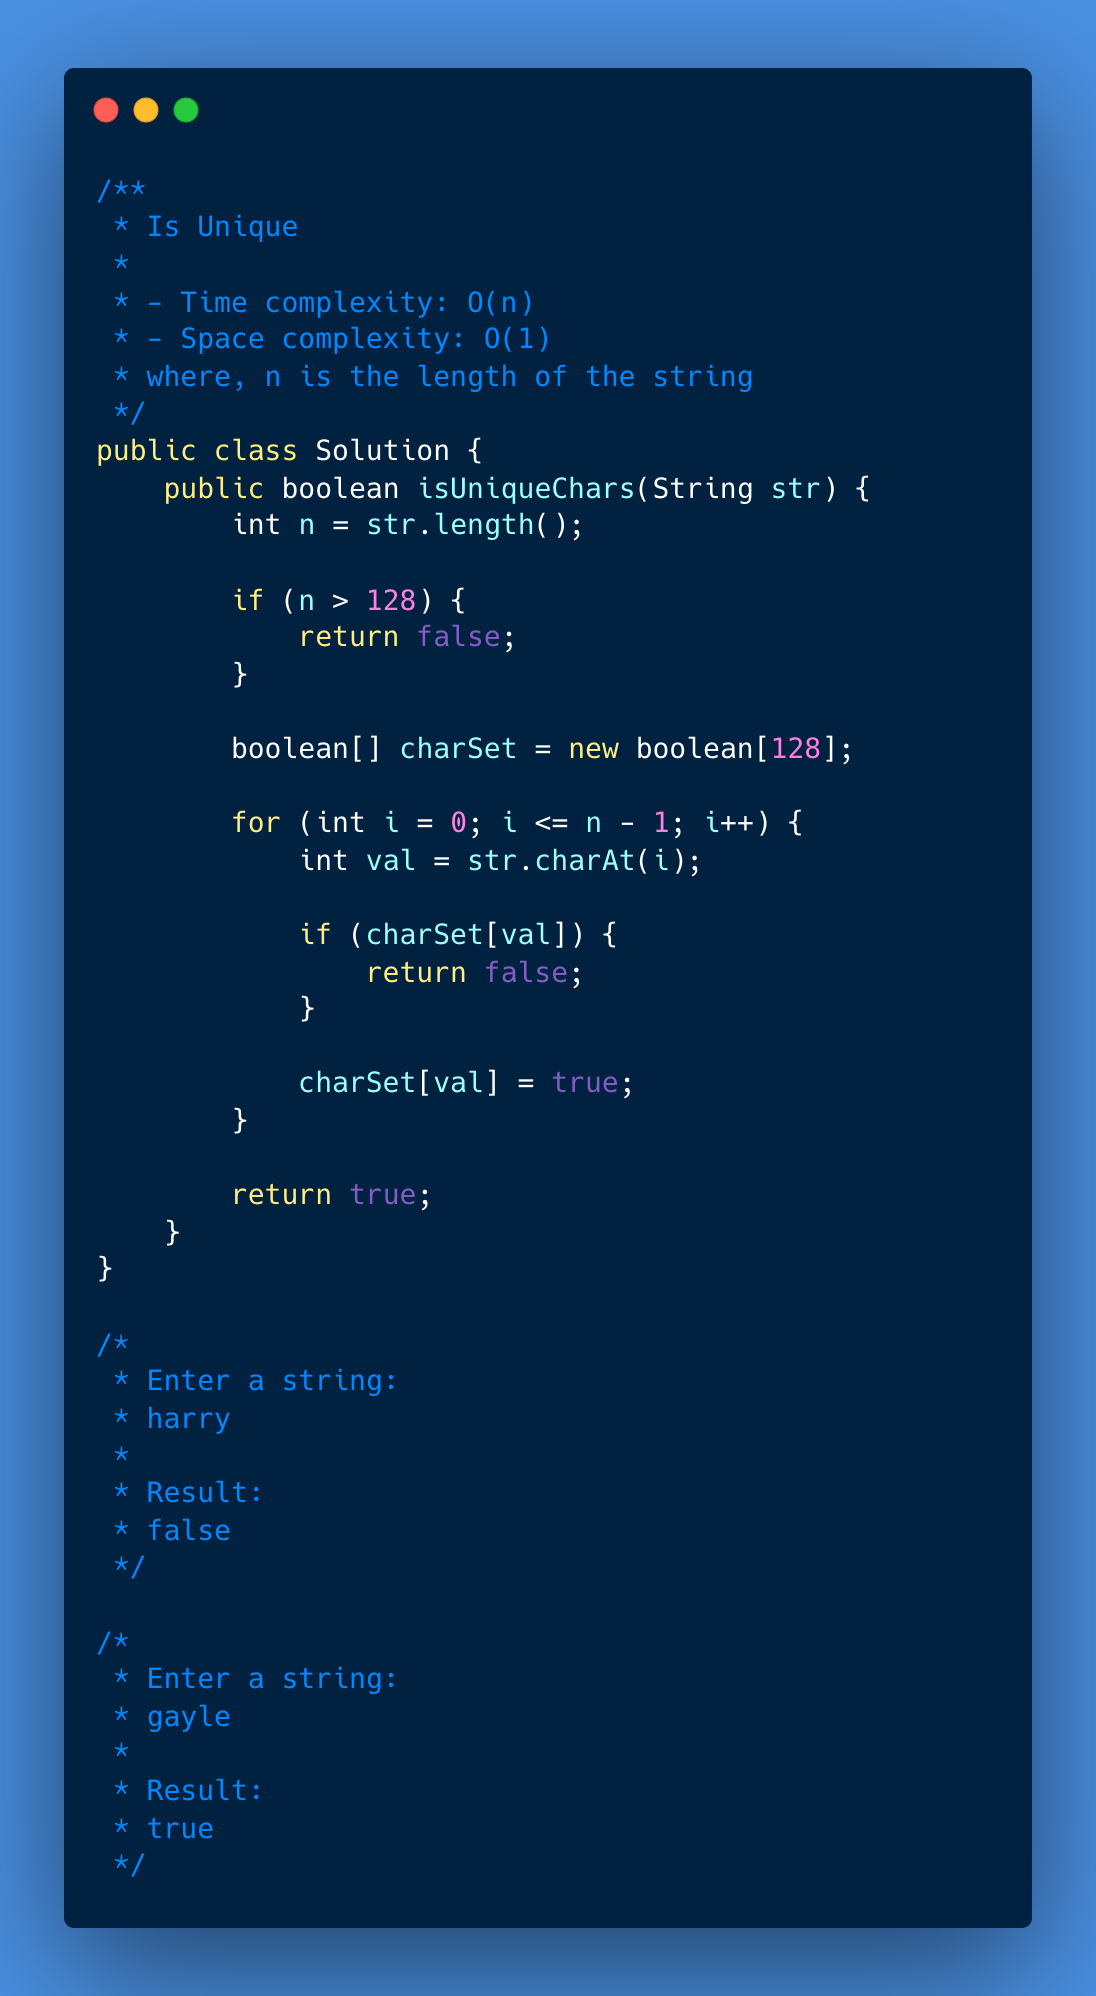
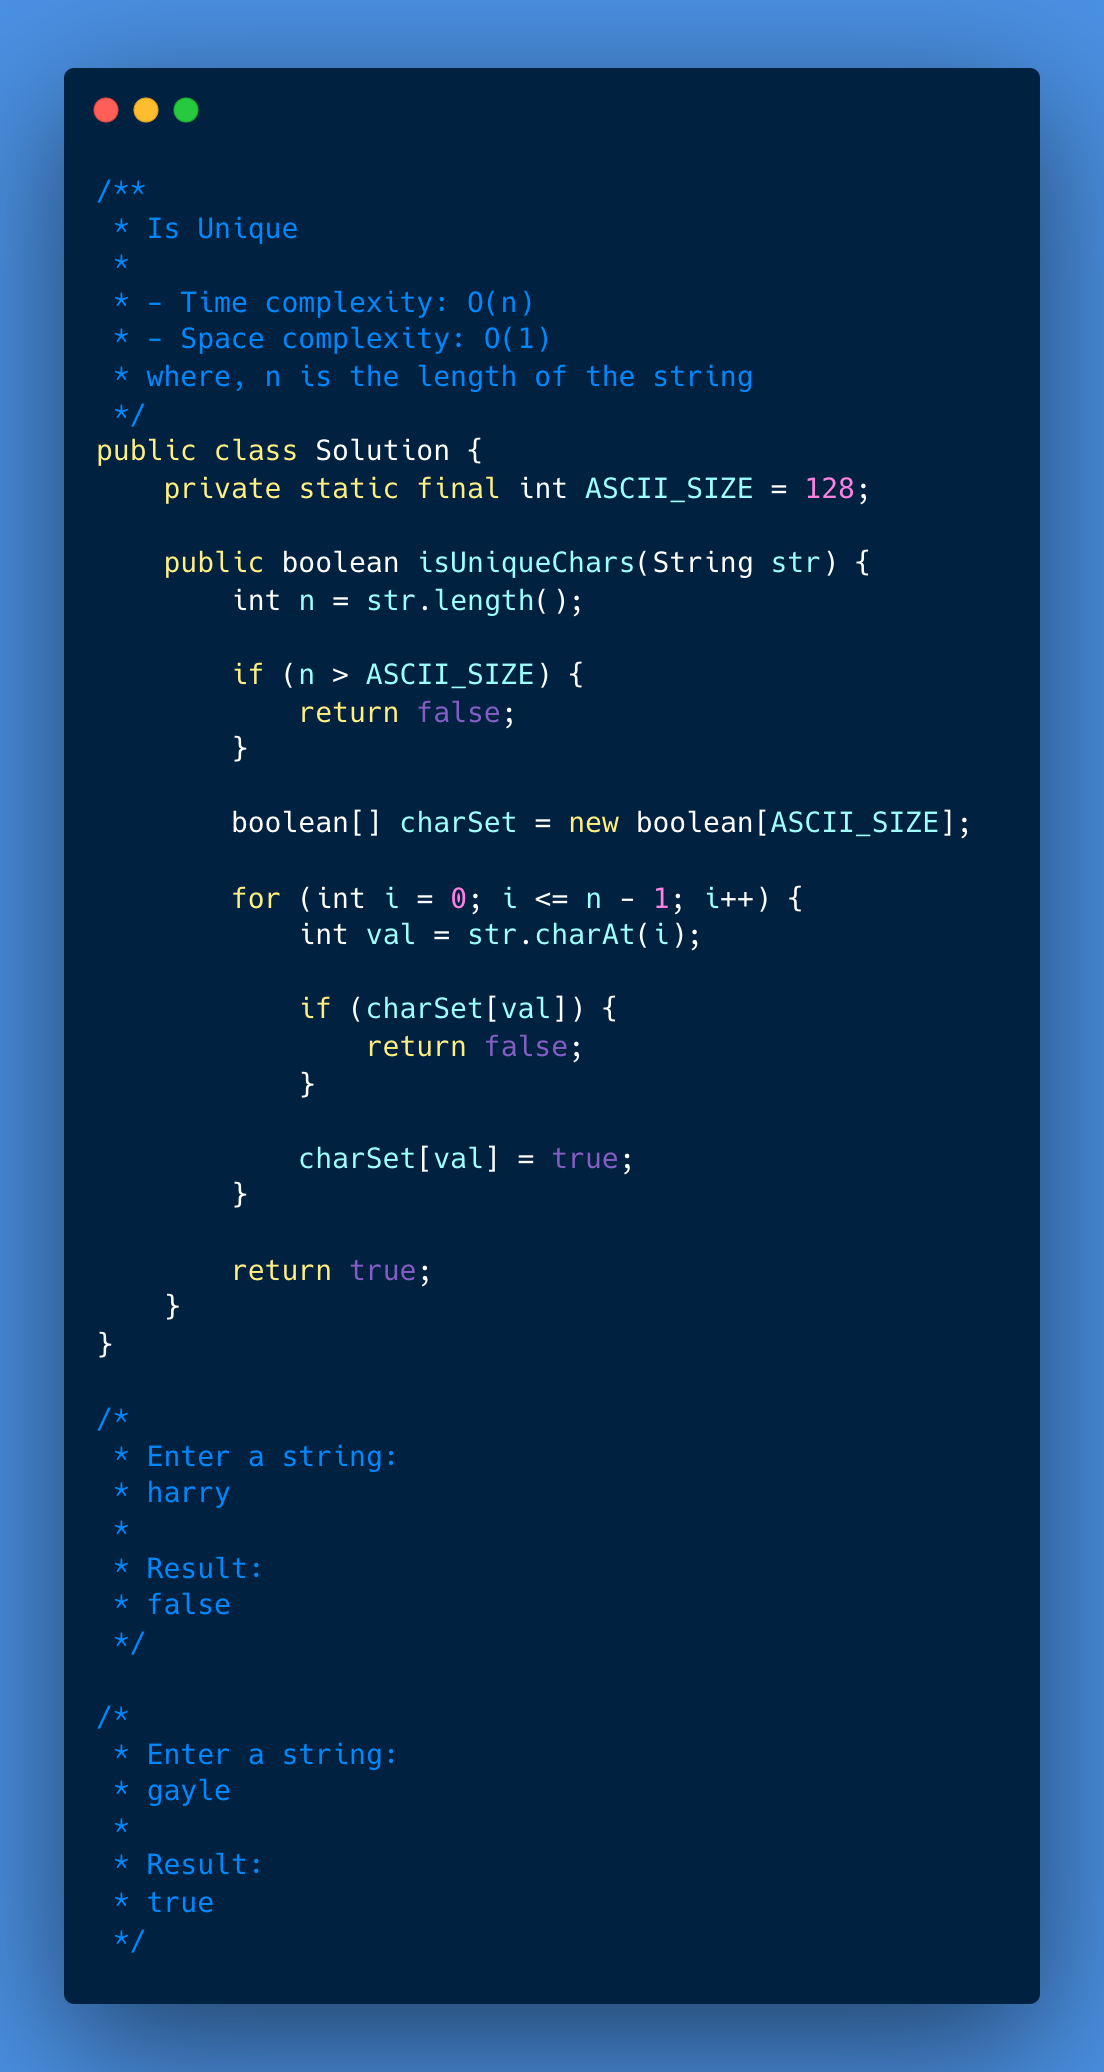
readme updates and chore

diff --git a/000-category-based-cci/001-arrays-strings/001-is-unique/001-solution/Solution.java b/000-category-based-cci/001-arrays-strings/001-is-unique/001-solution/Solution.java
@@ -6,14 +6,16 @@
  * where, n is the length of the string
  */
 public class Solution {
+    private static final int ASCII_SIZE = 128;
+
     public boolean isUniqueChars(String str) {
         int n = str.length();
 
-        if (n > 128) {
+        if (n > ASCII_SIZE) {
             return false;
         }
 
-        boolean[] charSet = new boolean[128];
+        boolean[] charSet = new boolean[ASCII_SIZE];
 
         for (int i = 0; i <= n - 1; i++) {
             int val = str.charAt(i);

diff --git a/000-category-based-cci/001-arrays-strings/001-is-unique/README.md b/000-category-based-cci/001-arrays-strings/001-is-unique/README.md
@@ -15,17 +15,18 @@ It's also okay to assume 256 characters. This would be the case in extended ASCI
 This code below implements this algorithm:
 
 ```java
+final int ASCII_SIZE = 128;
+
 boolean isUniqueChars(String str) {
   int n = str.length();
 
-  // Assuming character set is ASCII (128 characters)
   // If the string length exceeds the number of unique characters in the alphabet, return false
-  if (n > 128) {
+  if (n > ASCII_SIZE) {
     return false;
   }
 
   // Create a boolean array to store the presence of each character
-  boolean[] char_set = new boolean[128];
+  boolean[] char_set = new boolean[ASCII_SIZE];
 
   // Iterate for each character in the string
   for (int i = 0; i <= n - 1; i++) {

diff --git a/000-category-based-cci/001-arrays-strings/002-check-permutation/README.md b/000-category-based-cci/001-arrays-strings/002-check-permutation/README.md
@@ -61,13 +61,13 @@ boolean permutation(String s, String t) {
   // Letters array to store the count of each character
   int[] letters = new int[ASCII_SIZE];
 
-  // Count the number of each character in s
   for (int i = 0; i <= sn - 1; i++) {
+    // Count the number of each character in s
     letters[s.charAt(i)]++;
   }
 
-  // Compare the number of each character in t
   for (int i = 0; i <= tn - 1; i++) {
+    // Count the number of each character in t
     letters[t.charAt(i)]--;
 
     // If the count is less than 0, the strings are not permutations
